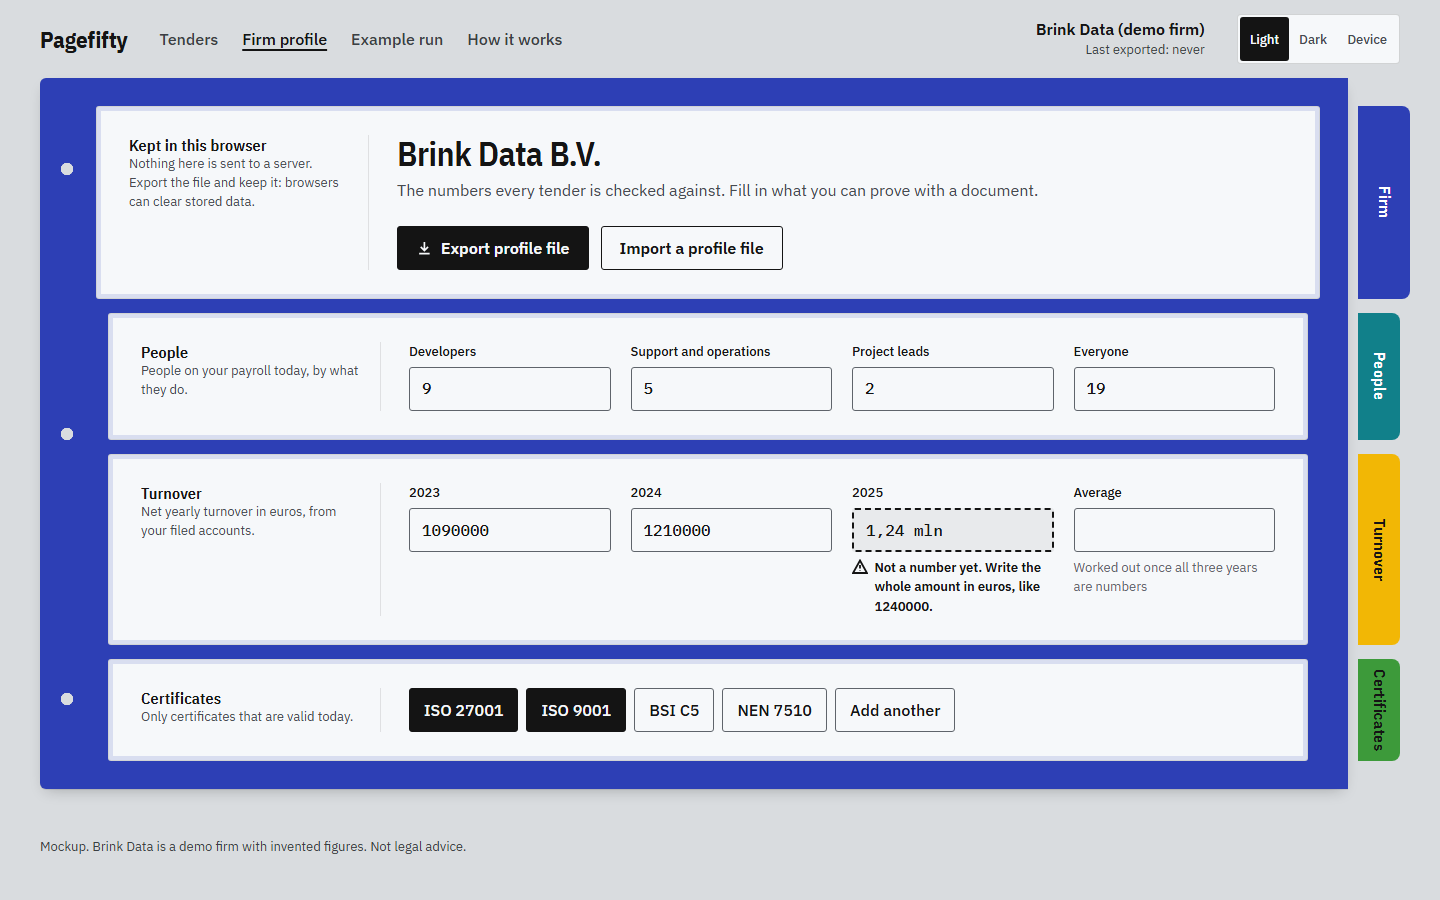
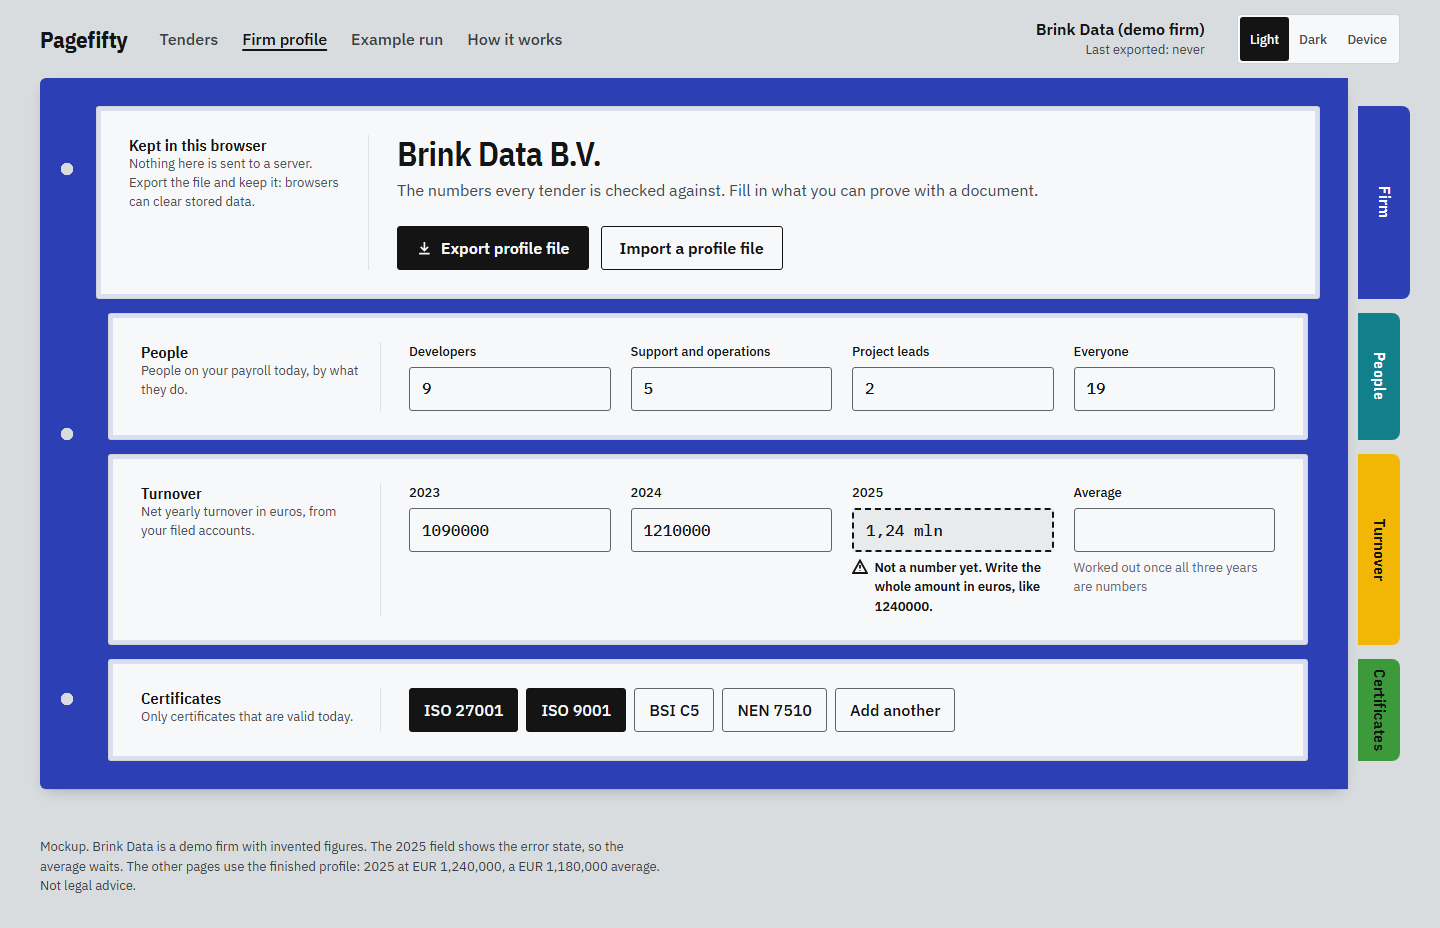
fix(design): check button values and re-resolve Device on restore
theme.js now passes a switch button's value through the same known()
check as storage and ?theme=, so a markup typo can no longer store and
paint an unknown theme. A page restored from the back-forward cache now
applies the current choice again, so Device picks up an OS change made
while the page was frozen. Two tests cover these and fail on the
previous script.

Docs: PRODUCT.md and ART-DIRECTION.md name the countries behind the 57
floor notices (53 German, 4 Belgian, no Dutch). The profile mockup
notes that its 2025 field shows the error state and that the other
pages use the finished profile. The stacked-table comment says which
cells carry a visible label. The four profile mockups are recaptured.

diff --git a/src/lib/design-theme.test.ts b/src/lib/design-theme.test.ts
@@ -106,9 +106,17 @@ function fakeBrowser(setup: Setup) {
 		click: (choice: Choice) =>
 			fire('document', 'click', { target: buttons[CHOICES.indexOf(choice)] }),
 		clickElsewhere: () => fire('document', 'click', { target: { closest: () => null } }),
+		clickButtonValued: (value: string) =>
+			fire('document', 'click', {
+				target: { closest: () => ({ dataset: { themeChoice: value } }) }
+			}),
 		setOs: (dark: boolean) => {
 			media.matches = dark;
 			fire('media', 'change');
+		},
+		// The OS changed while the page sat frozen in the back-forward cache, so no change event came.
+		setOsWhileFrozen: (dark: boolean) => {
+			media.matches = dark;
 		},
 		otherTab: (value: string | null, key = KEY) => {
 			if (value === null) store.delete(key);
@@ -200,6 +208,24 @@ describe('design mockup theme switch', () => {
 		const late = fakeBrowser({ stored: 'dark', readyState: 'complete' });
 		late.run(THEME_SCRIPT);
 		expect([late.theme(), late.pressed()]).toEqual(['dark', ['dark']]);
+	});
+
+	it('ignores a switch button whose value is not a known choice', () => {
+		const page = loaded({ stored: 'dark' });
+		page.clickButtonValued('purple');
+		expect([page.theme(), page.stored(), page.pressed()]).toEqual(['dark', 'dark', ['dark']]);
+	});
+
+	it('resolves Device against the OS again when a frozen page is restored', () => {
+		const page = loaded({ osDark: false });
+		page.setOsWhileFrozen(true);
+		page.restore();
+		expect([page.theme(), page.pressed()]).toEqual(['dark', ['device']]);
+
+		const picked = loaded({ stored: 'light', osDark: false });
+		picked.setOsWhileFrozen(true);
+		picked.restore();
+		expect(picked.theme()).toBe('light');
 	});
 
 	it('follows the OS only while Device is picked', () => {

diff --git a/design/assets/theme.js b/design/assets/theme.js
@@ -4,7 +4,8 @@
 	const CHOICES = ['light', 'dark', 'device'];
 	const media = window.matchMedia('(prefers-color-scheme: dark)');
 
-	// Storage and the query string are both outside input: anything but a known choice is ignored.
+	// Storage and the query string are outside input, and a button's value is checked the same way:
+	// anything but a known choice is ignored.
 	function known(value) {
 		return CHOICES.includes(value) ? value : null;
 	}
@@ -50,7 +51,10 @@
 	document.addEventListener('click', (event) => {
 		const button = event.target.closest('[data-theme-choice]');
 		if (!button) return;
-		current = button.dataset.themeChoice;
+		// The markup sets these values, but a typo there would otherwise store and paint junk.
+		const choice = known(button.dataset.themeChoice);
+		if (!choice) return;
+		current = choice;
 		try {
 			localStorage.setItem(KEY, current);
 		} catch {
@@ -68,8 +72,11 @@
 		if (event.key === KEY) follow();
 	});
 
+	// A restored page may have missed an OS change while frozen, so Device is resolved again too.
 	window.addEventListener('pageshow', (event) => {
-		if (event.persisted) follow();
+		if (!event.persisted) return;
+		follow();
+		apply(current);
 	});
 
 	// With defer the page is already parsed here. Waiting for DOMContentLoaded only when it is not

diff --git a/design/assets/pagefifty.css b/design/assets/pagefifty.css
@@ -1366,7 +1366,8 @@ table.index .b {
 		margin: 0 0.75rem 2rem;
 	}
 
-	/* Headers stay in the accessibility tree; stacked cells carry their own label. */
+	/* Headers stay in the accessibility tree. Stacked cells whose content does not name itself
+	   (deadline, turnover floor) carry a visible label; the tender and verdict cells read as they are. */
 	table.index thead {
 		position: absolute;
 		width: 1px;

diff --git a/design/profile.html b/design/profile.html
@@ -173,7 +173,9 @@
 		</main>
 
 		<p class="demo-note">
-			Mockup. Brink Data is a demo firm with invented figures. Not legal advice.
+			Mockup. Brink Data is a demo firm with invented figures. The 2025 field shows the error state,
+			so the average waits. The other pages use the finished profile: 2025 at EUR 1,240,000, a EUR
+			1,180,000 average. Not legal advice.
 		</p>
 	</body>
 </html>

diff --git a/PRODUCT.md b/PRODUCT.md
@@ -49,7 +49,7 @@ It never gives a verdict the source does not support. Tender alert tools find te
 
 ## Evidence on Hand
 
-- Measured on live TED data, 2026-09-15: 363 IT notices from NL, BE and DE published since 2026-09-01 and listed by TED as active, 350 of them still open by their own deadlines; 97 of the 363 publish an estimated value; 57 of the open ones state a turnover floor, and 31 of those set a floor a firm with EUR 1M yearly turnover cannot meet on its own (every floor in a lot counts, a three-year total counts as a third a year).
+- Measured on live TED data, 2026-09-15: 363 IT notices from NL, BE and DE published since 2026-09-01 and listed by TED as active, 350 of them still open by their own deadlines; 97 of the 363 publish an estimated value; 57 of the open ones state a turnover floor (53 German, 4 Belgian, no Dutch), and 31 of those set a floor a firm with EUR 1M yearly turnover cannot meet on its own (every floor in a lot counts, a three-year total counts as a third a year).
 - German notices carry typed selection criteria far more often than Dutch or Belgian ones (211 of 240 DE, 2 of 72 NL, 10 of 43 BE, counting the 355 notices with a single buyer, since the other 8 have several).
 - Real DTVP document packs (ZIP) and a TenderNed PDF fetched with no account.
 - No customers, testimonials, press or partner logos exist. None may be invented.

diff --git a/design/ART-DIRECTION.md b/design/ART-DIRECTION.md
@@ -168,5 +168,5 @@ Each image is a full-page capture in headless Chromium at a 1440 by 900 or 390 b
 ## Content truth
 
 - Tender facts and German quotes come from TED notices 630477-2026, 600017, 612926, 634313, 634770, 631707, 625719 and 614181 (2026).
-- The home page figure (57 open notices with a turnover floor, 31 of them out of reach for a firm at EUR 1M on its own) comes from the 2026-09-15 capture: 363 IT notices TED listed as active, 350 still open by their deadlines. A firm must meet every floor in a lot, a three-year total counts as a third a year, and one floor the buyer states only as expected (614181-2026) is left out.
+- The home page figure (57 open notices with a turnover floor, 53 German and 4 Belgian with no Dutch one among them, 31 of them out of reach for a firm at EUR 1M on its own) comes from the 2026-09-15 capture: 363 IT notices TED listed as active, 350 still open by their deadlines. A firm must meet every floor in a lot, a three-year total counts as a third a year, and one floor the buyer states only as expected (614181-2026) is left out.
 - Brink Data is a demo firm with invented figures. The states page's Article 58(3) figures are illustrative. Both are labelled on the pages.
